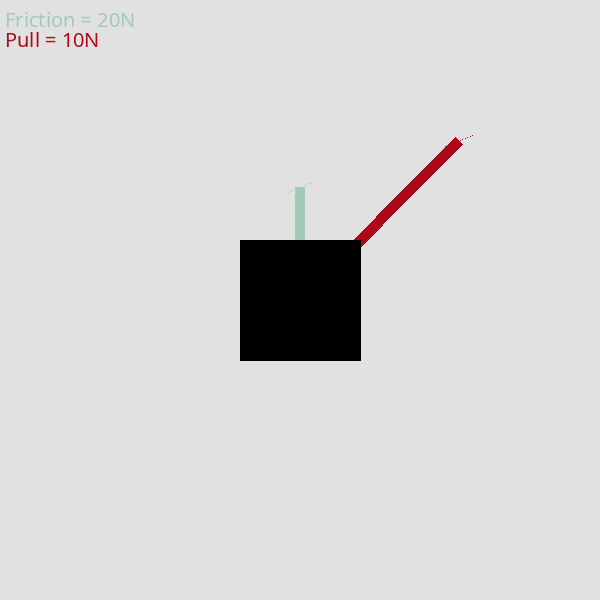
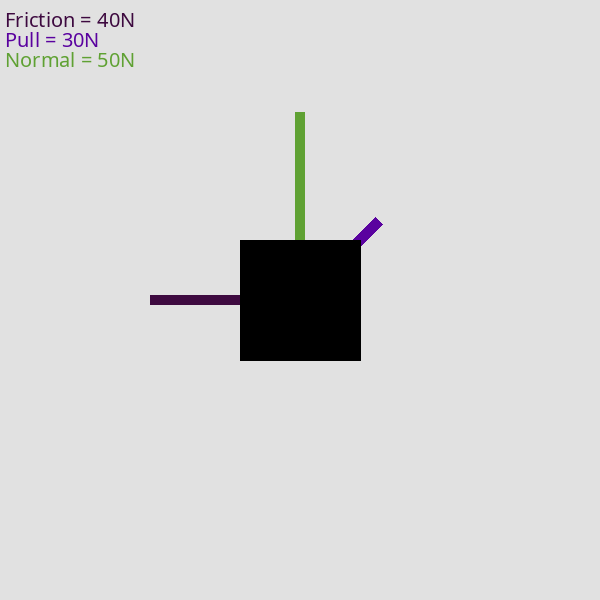
Improved mechanism for arrows + better creation structure

diff --git a/pyfreebody.py b/pyfreebody.py
@@ -1,0 +1,101 @@
+from random import randint
+from PIL import Image, ImageDraw, ImageFont
+import math
+from datetime import datetime
+
+
+class Freebody:
+
+
+    def __init__ (self,name, mass):
+        self.mass = mass
+        _initSchema()
+        self.schema["name"] = name;
+        self.shema['mass'] = mass
+
+    def _initSchema(self):
+        self.schema = {"name":"", "mass": 0, "forces":[]}
+
+    def addForce(self, name, magnitude, theta):
+        if self.schema == None:
+            _initSchema()
+        else:
+            self.schema["forces"].append({"name":name,"magnitude":magnitude,"theta":theta})
+
+    def setSchema(self, schema):
+        self.shema = schema
+
+    def diagram(self):
+
+        img  = Image.new( mode = "RGB", size = (size, size), color = (225,225,225))
+        canvas = ImageDraw.Draw(img)
+
+        mean = 0
+        for force in self.schema['forces']:
+            mean+=force['magnitude']
+
+        mean /= len(self.schema['forces'])
+        print(mean)
+        i=0
+
+        for force in self.schema['forces']:
+            color = randomColor()
+            force['prop'] =  force['magnitude'] / mean
+            CreatArrow(canvas, force, color)
+            ForceLegend(canvas, force, i, color)
+
+            i+=1
+
+        canvas.rectangle(((center*0.8, center*0.8), (center*1.2, center*1.2)), outline = black, fill = black)
+
+        now = datetime.now()
+        dtstr = now.strftime("%d-%m-%Y %H:%M:%S")
+        path = "pyfreebody-"+schema['name']+".png"
+        img.save(path)
+        return path
+    #    img.show()
+
+size = 600
+arrowHeadSize = 15
+cw = 400 * 0.1
+center = size / 2;
+rectW = size * 0.4
+
+black = (0,0,0)
+
+font = ImageFont.truetype("/usr/share/fonts/noto/NotoSans-Regular.ttf", 20)
+
+def randomColor():
+    return (randint(0, 180),
+          randint(0, 180),
+          randint(0, 180))
+
+def ArrowCordinates(force):
+    theta = force['theta']
+    m = force['prop'] * 150
+    print(force['prop'])
+    yc = m * math.sin(theta)
+    xc = m * math.cos(theta)
+    return ((center, center), (center+ xc, center - yc))
+
+
+# faulty
+def ArrowHeadCordinates(arrowCords):
+    x, y = arrowCords[1][0], arrowCords[1][1]
+    dx = arrowHeadSize * math.cos(math.pi/4)
+    dy = (2 * arrowHeadSize * math.sin(math.pi/4))/2
+    print(dx, dy)
+    print(x, y)
+    return (
+        (x-dx, y + dy),
+        (x+dx, y - dy),
+        (x-arrowHeadSize, y + arrowHeadSize)
+    )
+def ForceLegend(canvas, force, i, color):
+    text = force['name'] + " = " + str(force['magnitude']) + "N"
+    canvas.text((5,5+i*20), text, fill = color, font = font)
+
+def CreatArrow(canvas, force, color):
+    arrowBase = ArrowCordinates(force)
+    canvas.line(arrowBase, width=10, fill = color)
+    #canvas.polygon(ArrowHeadCordinates(arrowBase), fill = color)

diff --git a/demos/pyfreebody.py b/demos/pyfreebody.py
@@ -1,0 +1,103 @@
+from random import randint
+from PIL import Image, ImageDraw, ImageFont
+import math
+from datetime import datetime
+import enum
+
+
+class Direction(enum.Enum):
+    up = math.pi /2
+    down = (3 * math.pi) / 2
+    left = math.pi
+    right = 0
+
+
+class Freebody:
+
+
+    def __init__ (self,name, mass):
+        self.schema = {"name":"", "mass": 0, "forces":[]}
+        self.schema["name"] = name;
+        self.schema['mass'] = mass
+
+
+    def addForce(self, name, magnitude, theta):
+        self.schema["forces"].append({"name":name,"magnitude":magnitude,"theta":theta.value})
+
+    def setSchema(self, schema):
+        self.shema = schema
+
+    def diagram(self):
+
+        img  = Image.new( mode = "RGB", size = (size, size), color = (225,225,225))
+        canvas = ImageDraw.Draw(img)
+
+        mean = 0
+        for force in self.schema['forces']:
+            mean+=force['magnitude']
+
+        mean /= len(self.schema['forces'])
+        print(mean)
+        i=0
+
+        for force in self.schema['forces']:
+            color = randomColor()
+            force['prop'] =  force['magnitude'] / mean
+            CreatArrow(canvas, force, color)
+            ForceLegend(canvas, force, i, color)
+
+            i+=1
+
+        canvas.rectangle(((center*0.8, center*0.8), (center*1.2, center*1.2)), outline = black, fill = black)
+
+        now = datetime.now()
+        dtstr = now.strftime("%d-%m-%Y %H:%M:%S")
+        path = "pyfreebody-"+self.schema['name']+".png"
+        img.save(path)
+        return path
+    #    img.show()
+
+size = 600
+arrowHeadSize = 15
+cw = 400 * 0.1
+center = size / 2;
+rectW = size * 0.4
+
+black = (0,0,0)
+
+font = ImageFont.truetype("/usr/share/fonts/noto/NotoSans-Regular.ttf", 20)
+
+def randomColor():
+    return (randint(0, 180),
+          randint(0, 180),
+          randint(0, 180))
+
+def ArrowCordinates(force):
+    theta = force['theta']
+    m = force['prop'] * 150
+    print(force['prop'])
+    yc = m * math.sin(theta)
+    xc = m * math.cos(theta)
+    return ((center, center), (center+ xc, center - yc))
+
+
+# faulty
+def ArrowHeadCordinates(arrowCords):
+    x, y = arrowCords[1][0], arrowCords[1][1]
+    dx = arrowHeadSize * math.cos(math.pi/4)
+    dy = (2 * arrowHeadSize * math.sin(math.pi/4))/2
+    print(dx, dy)
+    print(x, y)
+    return (
+        (x-dx, y + dy),
+        (x+dx, y - dy),
+        (x-arrowHeadSize, y + arrowHeadSize)
+    )
+def ForceLegend(canvas, force, i, color):
+    text = force['name'] + " = " + str(force['magnitude']) + "N"
+    canvas.text((5,5+i*20), text, fill = color, font = font)
+
+def CreatArrow(canvas, force, color):
+    arrowBase = ArrowCordinates(force)
+    canvas.line(arrowBase, width=10, fill = color)
+    #canvas.polygon(ArrowHeadCordinates(arrowBase), fill = color)

diff --git a/demos/demo.py b/demos/demo.py
@@ -1,0 +1,25 @@
+from pyfreebody import freebody
+import math
+
+testObj = {
+    "name":"test",
+    "forces": [
+        {
+            "name": "Friction",
+            "magnitude": 40,
+            "theta": math.pi
+        },
+        {
+            "name": "Pull",
+            "magnitude": 30,
+            "theta": math.pi / 4
+        },
+        {
+            "name": "Normal",
+            "magnitude": 50,
+            "theta": math.pi / 2
+        }
+    ]
+}
+
+freebody(testObj)

diff --git a/demos/demo1.py b/demos/demo1.py
@@ -1,0 +1,7 @@
+from pyfreebody import Freebody, Direction
+import math
+
+
+body = Freebody("test", 30)
+body.addForce("Normal", 30, Direction.up)
+body.diagram()
